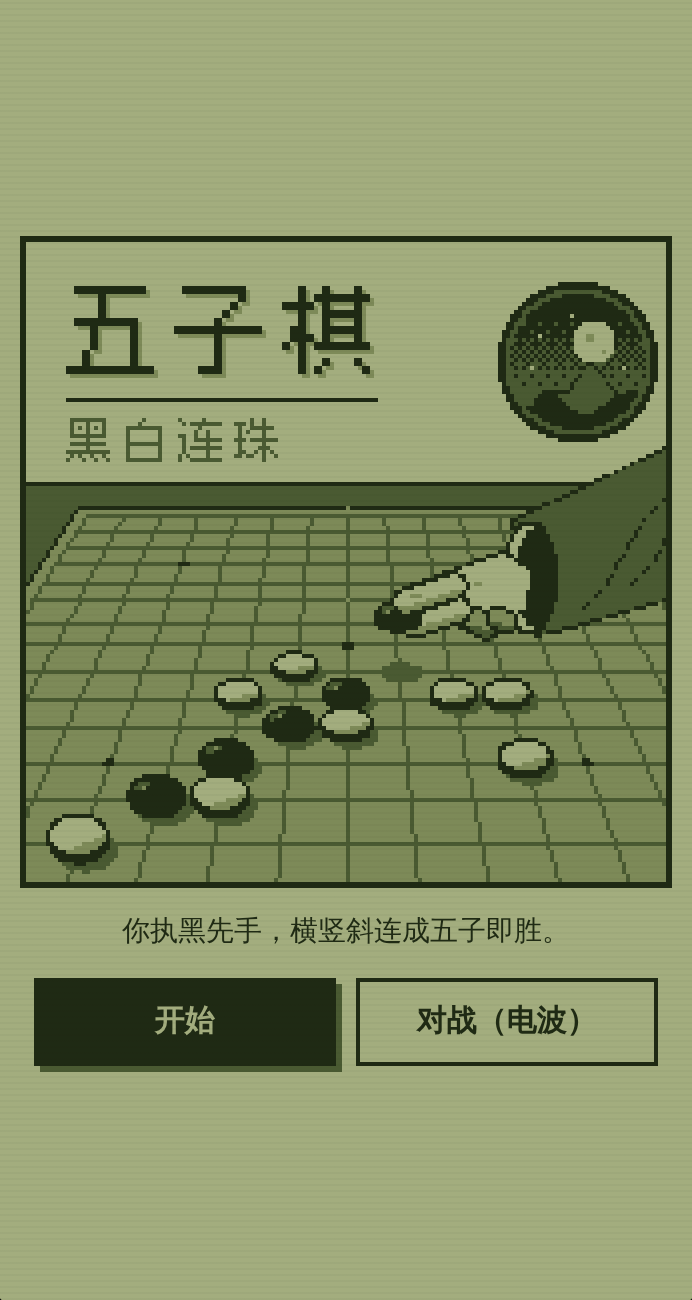
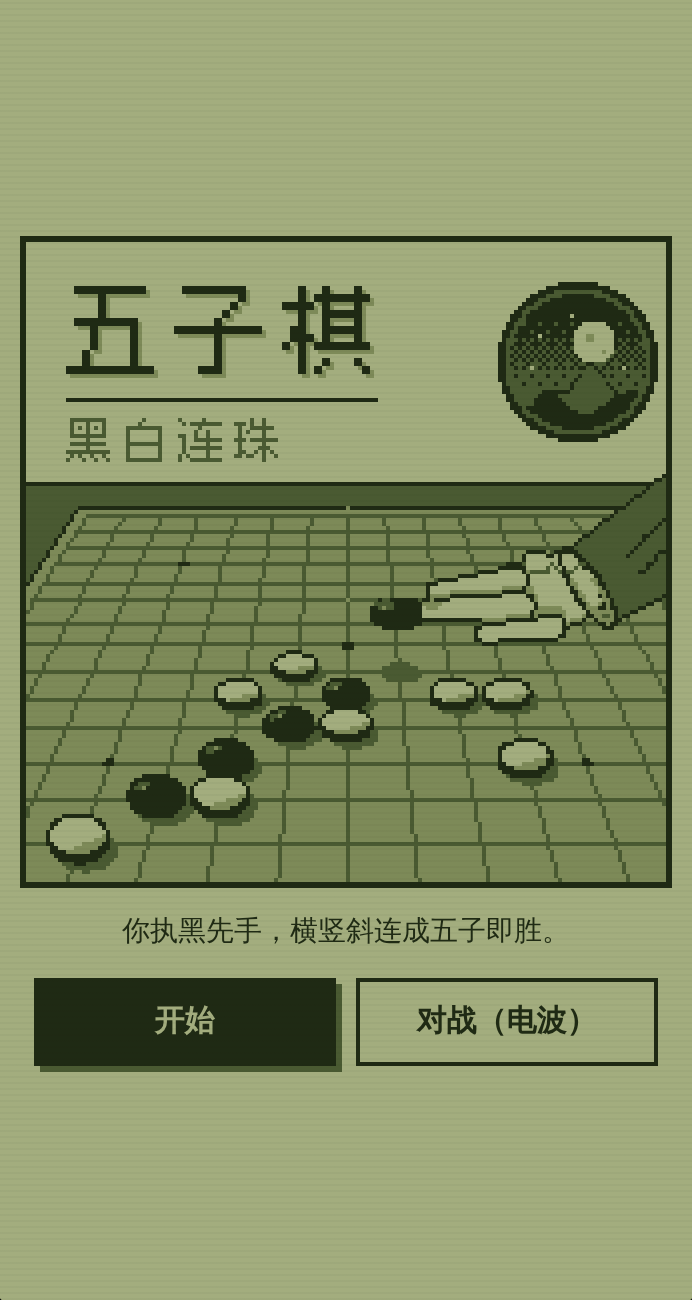
Gomoku cover: a finer hand and sleeve
The hand is now a sprite made from smooth shapes at 8x and reduced to the four tones: the arm
in its sleeve from the top right, a cuff with its lining, the back of the hand with the curled
fingers, two fingers holding the stone and the thumb under them, drawn larger. Board and stones
unchanged. Gallery cover re-filmed.

Claude-Session: https://claude.ai/code/session_01DFPvMxWQdcvM3ayyWqQYZm

Changed region(s): [[0.5159, 0.3385, 0.9711, 0.5231]]

diff --git a/registry/apps/gomoku/index.html b/registry/apps/gomoku/index.html
@@ -149,65 +149,69 @@ var ART = (function () {
         c.ell(cx, cy, rx - 1, ry - 1, function (x, y, dx, dy) { return dx * 0.6 + dy > 0.55 ? 1 : 0; });
       }
     });
-    /* the hand: from the right, a sleeve, the winning stone held between two fingers above its point */
-    function cap(x0, y0, x1, y1, r, t) {
-      var minx = Math.floor(Math.min(x0, x1) - r - 1), maxx = Math.ceil(Math.max(x0, x1) + r + 1), miny = Math.floor(Math.min(y0, y1) - r - 1), maxy = Math.ceil(Math.max(y0, y1) + r + 1);
-      var dx = x1 - x0, dy = y1 - y0, L = dx * dx + dy * dy || 1;
-      for (var y = miny; y <= maxy; y++) for (var x = minx; x <= maxx; x++) {
-        var px = x + 0.5, py = y + 0.5, k = Math.max(0, Math.min(1, ((px - x0) * dx + (py - y0) * dy) / L));
-        var ex = px - (x0 + dx * k), ey = py - (y0 + dy * k), d = Math.sqrt(ex * ex + ey * ey);
-        if (d <= r) c.set(x, y, typeof t === "function" ? t(x, y, ex / r, ey / r, k) : t);
-      }
-    }
-    function limb(x0, y0, x1, y1, r, body, shade) {
-      cap(x0, y0, x1, y1, r + 1, 3);
-      cap(x0, y0, x1, y1, r, function (x, y, ex, ey) { return ey > 0.35 ? shade : body; });
-    }
-    var g5 = G(8, 8), hx = Math.round(g5[0]), hy = Math.round(g5[1]);
-    /* the stone's shadow on its point, where it is about to go */
-    var q5 = G(9, 8), r5 = G(8, 9), srx = (q5[0] - g5[0]) * 0.47, sry = (r5[1] - g5[1]) * 0.47;
-    c.ell(g5[0] + 1, g5[1] + 1, srx * 0.9, sry * 0.8, 2);
-    var sx = hx - 1, sy = hy - 13;
-    function poly(pts, t) {
-      var ys = pts.map(function (p) { return p[1]; }), y0 = Math.floor(Math.min.apply(null, ys)), y1 = Math.ceil(Math.max.apply(null, ys));
-      for (var y = y0; y <= y1; y++) {
-        var py = y + 0.5, xs = [];
-        for (var i = 0; i < pts.length; i++) { var a = pts[i], b = pts[(i + 1) % pts.length]; if ((a[1] <= py) !== (b[1] <= py)) xs.push(a[0] + (py - a[1]) / (b[1] - a[1]) * (b[0] - a[0])); }
-        xs.sort(function (m, n) { return m - n; });
-        for (var k = 0; k + 1 < xs.length; k += 2) for (var x = Math.ceil(xs[k] - 0.5); x <= Math.floor(xs[k + 1] - 0.5); x++) c.set(x, y, typeof t === "function" ? t(x, y) : t);
-      }
-    }
-    function grow(pts, d) { var cx = 0, cy = 0; pts.forEach(function (p) { cx += p[0]; cy += p[1]; }); cx /= pts.length; cy /= pts.length;
-      return pts.map(function (p) { var dx = p[0] - cx, dy = p[1] - cy, l = Math.hypot(dx, dy) || 1; return [p[0] + dx / l * d, p[1] + dy / l * d]; }); }
-    function shape(pts, body, shade, edge) { poly(grow(pts, 1.2), 3); poly(pts, function (x, y) { return y > edge(x) ? shade : body; }); }
-    var o = function (x, y) { return [sx + x, sy + y]; };
-    /* sleeve: a wide robe sleeve from the top right, its mouth open toward us with a paper lining */
-    var sleeve = [o(30, -24), o(W - sx + 4, -44), o(W - sx + 4, -6), o(44, 2), o(36, 4)];
-    shape(sleeve, 2, 2, function () { return 999; });
-    /* two folds of cloth, and the sleeve's mouth: dark inside, a paper rim of lining on its near edge */
-    [[0, 0], [12, -6]].forEach(function (f) {
-      var pts = []; for (var t = 0; t <= 14; t++) pts.push([sx + 47 + f[0] + t * 1.4, sy - 3 + f[1] - t * 1.9 + Math.sin(t * 0.45) * 1.5]);
-      for (var i = 0; i + 1 < pts.length; i++) c.line(pts[i][0], pts[i][1], pts[i + 1][0], pts[i + 1][1], 3);
-    });
-    c.ell(sx + 34, sy - 10, 7.2, 14.5, 3); c.ell(sx + 34, sy - 10, 6.2, 13.5, 0); c.ell(sx + 35.4, sy - 10, 5.2, 12.6, 3);
-    /* the back of the hand, knuckles toward the stone */
-    var back = [o(13, -11), o(27, -16), o(34, -12), o(33, -2), o(17, 2)];
-    shape(back, 0, 1, function (x) { return sy - 1 + (x - sx) * 0.02; });
-    /* ring and little finger curled under */
-    limb(sx + 21, sy + 1, sx + 23, sy + 2, 2.6, 1, 2);
-    limb(sx + 26, sy, sx + 28, sy + 1, 2.3, 1, 2);
-    /* middle finger, under the stone */
-    limb(sx + 16, sy - 2, sx + 5, sy + 1.5, 2.8, 0, 1);
-    /* the stone */
-    c.ell(sx + 1, sy, srx + 0.5, sry + 0.5, 3);
-    c.ell(sx + 1, sy - 1, srx, sry, 3);
-    c.ell(sx + 1 - srx * 0.3, sy - 1 - sry * 0.3, srx * 0.42, sry * 0.36, function (x, y, dx, dy) { return dx + dy < -0.2 ? 2 : 3; });
-    c.set(Math.round(sx + 1 - srx * 0.45), Math.round(sy - 1 - sry * 0.45), 1);
-    /* index finger over the stone */
-    limb(sx + 15, sy - 8, sx + 3, sy - 4, 2.8, 0, 1);
-    c.line(sx + 4, sy - 6, sx + 6, sy - 6, 1);
-    /* knuckle creases */
-    c.set(sx + 15, sy - 6, 1); c.set(sx + 16, sy - 1, 1); c.set(sx + 20, sy - 9, 1); c.set(sx + 21, sy - 9, 1);
+    /* the hand: from the top right, a sleeve and a hand holding the winning stone above its point. Its shadow is on
+       the point (8, 8); the stone is 13 rows above it */
+    var g5 = G(8, 8), q5 = G(9, 8), r5 = G(8, 9);
+    c.ell(g5[0] + 1, g5[1] + 1, (q5[0] - g5[0]) * 0.42, (r5[1] - g5[1]) * 0.38, 2);
+    var hx = Math.round(g5[0]) - 7, hy = Math.round(g5[1]) - 57;
+    /* the sprite (made from smooth shapes at 8x and reduced to the four tones; "." leaves the scene): the sleeve with
+       its cuff, the back of the hand with the curled ring and little finger, the middle finger under the stone, the
+       index finger over it with its nail, and the thumb tucked underneath */
+    var HAND = [
+      "..........................................................................",
+      "..........................................................................",
+      "..........................................................................",
+      "..........................................................................",
+      "..........................................................................",
+      "..........................................................................",
+      "..........................................................................",
+      "..........................................................................",
+      ".........................................................................3",
+      ".......................................................................332",
+      "......................................................................3222",
+      ".....................................................................32222",
+      "....................................................................322222",
+      "..................................................................33222222",
+      ".................................................................322222222",
+      "................................................................3222222222",
+      "..............................................................332222222222",
+      ".............................................................3222222222222",
+      "............................................................32222222222222",
+      "..........................................................3322222222222223",
+      ".........................................................32222222222222232",
+      "........................................................322222222222222322",
+      ".......................................................3222222222222223222",
+      ".....................................................332222222222222332222",
+      "....................................................3222222222222222322222",
+      "...................................................32222222222222223222222",
+      "................................................33322222222222222232222222",
+      ".......................................33333..3333332222222222222322222233",
+      "......................................300000330300033222222222223222222322",
+      "......................................300000000300003322222222222222222322",
+      ".....................................3200000020300002232222222222222233222",
+      "................................333333300000202030020333222222222222232222",
+      "...........................33333000000312222200232200003322222222223322222",
+      "......................3333300000000000030000000033000000332222222222222222",
+      ".................333330000000000000000030000000003100001132222222222222222",
+      "..............333000000000000000000000030000000003110000133222222222222222",
+      "..............300000000000000000011111311000000000310000013222222222222222",
+      "..............300000111111111111133333311000000000331000011322222222222222",
+      "..............311111333333333333300000033100000000031100031322222222222223",
+      "..3223333333.331333300000000000000000000310000000003310000113222222222233.",
+      ".2222233333331111100000000000000000000000300000000003310013132222222233...",
+      "332122333333301110000000000000000000000003111111000003111331332222233.....",
+      "3333333333333000000000000000000000000000311111111000003111111322233.......",
+      "33333333333330000000000000000000001111113133333310000133112213233.........",
+      "333333333333333333333333333311111133333333000000301113..3111133...........",
+      ".333333333333...............3333330000000000000031333....33133............",
+      "...33333333...............330000000000000000000033........333.............",
+      "..........................30000000000000000000003.........................",
+      "..........................30000000000000000000033.........................",
+      "..........................330000333333333333333...........................",
+      "............................3333..........................................",
+      ".........................................................................."
+    ];
+    HAND.forEach(function (row, j) { for (var i = 0; i < row.length; i++) if (row[i] !== ".") c.set(hx + i, hy + j, +row[i]); });
     /* the title on the wall: 2x pixels, ink, with a mid drop shadow; the line under it at 1x */
     var word = lang === "en" ? "GOMOKU" : "五子棋", sub = lang === "en" ? "FIVE IN A ROW" : "黑白连珠";
     var gap = lang === "en" ? 2 : 3;
